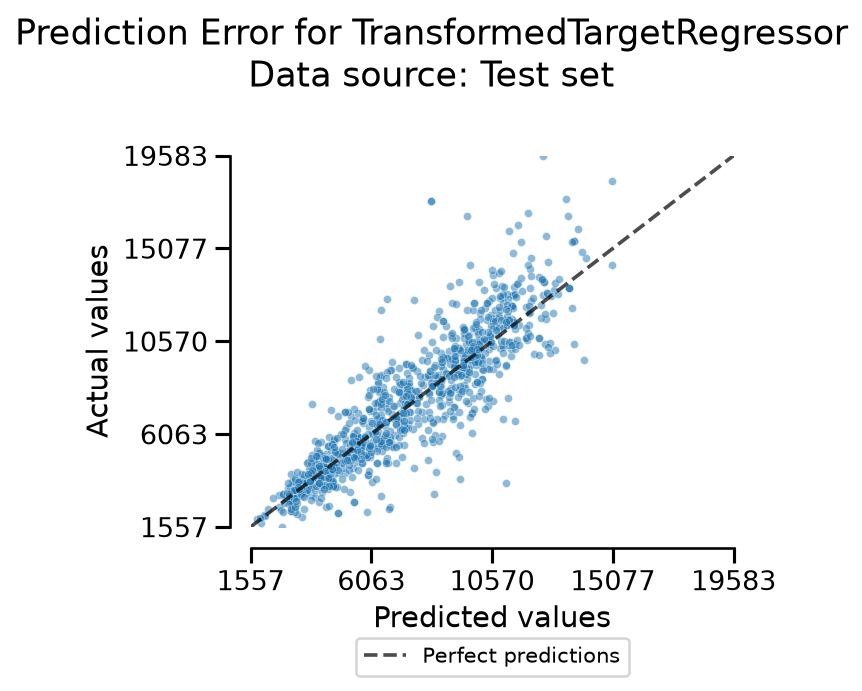
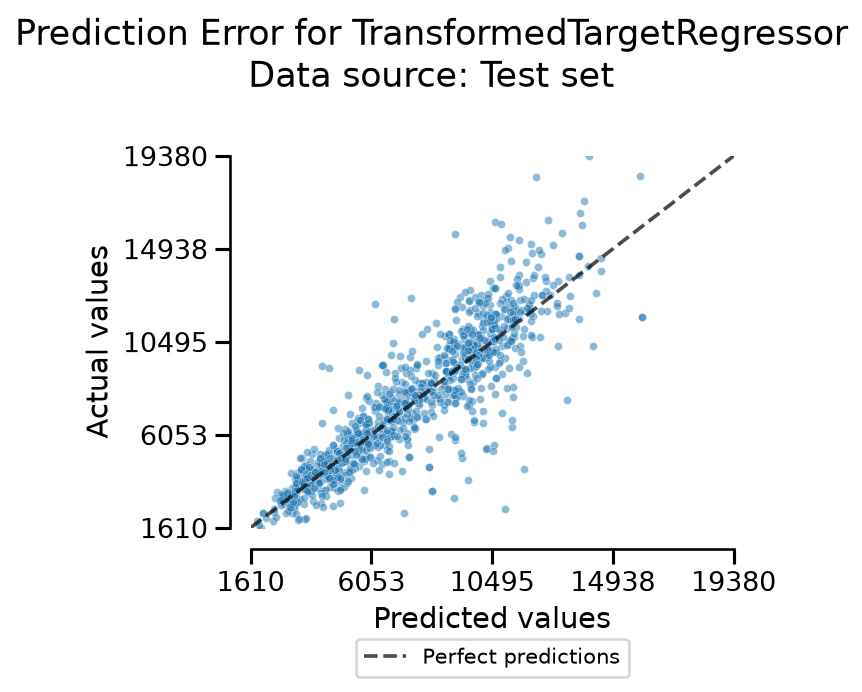
use of .env for API

diff --git a/dvf.py b/dvf.py
@@ -3,6 +3,7 @@ Predict the price per m² of homes sold in Paris and its inner suburbs
 from DVF transactions enriched with Filosofi socio-economic data
 """
 
+import os
 from pathlib import Path
 
 import duckdb
@@ -12,6 +13,7 @@ import numpy as np
 import pandas as pd
 import requests
 import seaborn as sns
+from dotenv import load_dotenv
 from lightgbm import LGBMRegressor
 from n_trees import n_trees
 from sklearn.base import clone
@@ -22,6 +24,8 @@ from sklearn.model_selection import train_test_split
 from sklearn.pipeline import Pipeline
 from sklearn.preprocessing import FunctionTransformer, OrdinalEncoder
 from skore import EstimatorReport
+
+load_dotenv()
 
 N_TREES = n_trees
 LEARNING_RATE = 0.03
@@ -46,7 +50,7 @@ NUMERIC_FEATURES = [
 CATEGORICAL_FEATURES = ["code_commune", "type_local"]
 DEPARTEMENTS_PARIS = ["75", "92", "93", "94"]
 
-JETON_API = "1SuperJetonUltraConfidentiel!!!"
+jeton_api = os.environ["JETON_API"]
 
 DATA_LOCATION = Path("data")
 SOURCES = {
@@ -197,7 +201,7 @@ params = {
     "maxResult": 40000,
 }
 
-headers = {"Authorization": f"Bearer {JETON_API}"}
+headers = {"Authorization": f"Bearer {jeton_api}"}
 
 response = requests.get(url, params=params, headers=headers, timeout=60)
 response.raise_for_status()
@@ -227,7 +231,7 @@ params = {
     "maxResult": 40000,
 }
 
-headers = {"Authorization": f"Bearer {JETON_API}"}
+headers = {"Authorization": f"Bearer {jeton_api}"}
 
 response = requests.get(url, params=params, headers=headers, timeout=60)
 response.raise_for_status()

diff --git a/README.md b/README.md
@@ -8,6 +8,10 @@ Exercice fil rouge guidé sur https://ensae-reproductibilite.github.io/website/c
 
 ## Sources utilisées
 
-Données DVF récupérées et simplifiées de https://www.data.gouv.fr/datasets/demandes-de-valeurs-foncieres 
+Données DVF récupérées et simplifiées de https://www.data.gouv.fr/datasets/demandes-de-valeurs-foncieres
 * Données carroyées Filosofi: https://www.data.gouv.fr/datasets/revenus-pauvrete-et-niveau-de-vie-donnees-carroyees-2019-et-2021-dispositif-fichier-localise-social-et-fiscal-filosofi
 * Données agrégées Filosofi récupérées depuis l'API Melodi de l'Insee
+
+### Pré-requis API
+
+Créer un fichier .env
